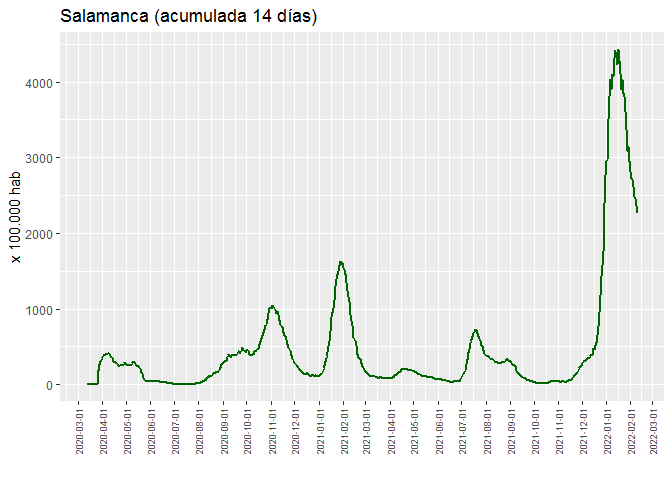
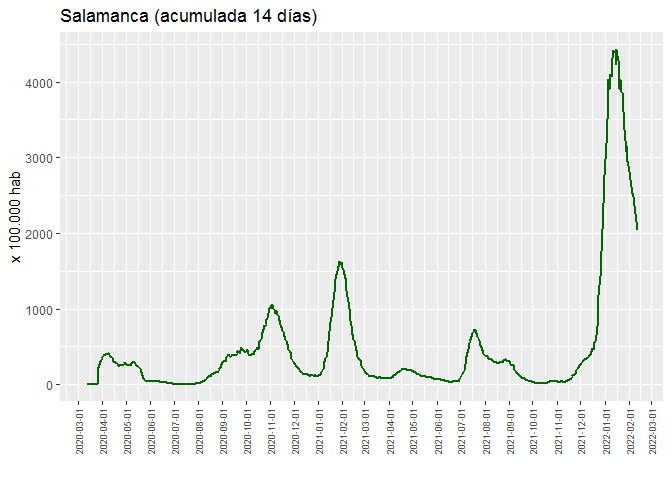
update

diff --git a/README.md b/README.md
@@ -1,7 +1,7 @@
 Covid-19: Incidencia acumulada
 ================
 JMSS \[Usal - CIC\]
-(updated: 10 feb 2022)
+(updated: 12 feb 2022)
 
 ### Incidencia acumulada del Covid19 por cada 100.000 habitantes
 
